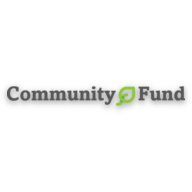
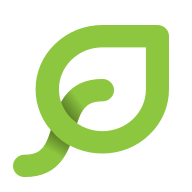
new favico and minor changes

diff --git a/src/routes/frontpage/quotes.js b/src/routes/frontpage/quotes.js
@@ -2,7 +2,7 @@ export default [
   {
     name: 'Ásgeir Vísir',
     text:
-      'Community Fund made it possible, and actually pretty easy, to organize UXuðir’s first meetup. 10/10 would reccomend.',
+      'Community Fund made it possible, and actually pretty easy, to organize UXuðir’s first meetup. 10/10 would recommend.',
     image: '/img/people/visir.jpg',
     title: 'UI/UX designer at Watchbox',
   },
@@ -23,13 +23,6 @@ export default [
     name: 'Valur Thor Gunnarsson',
     text:
       'One of the best thing about Community Fund is their no-nonsense, quick and simple application process. The whole communication process was effortless and easy.',
-    image: '/img/people/valur.jpg',
-    title: 'Founder Product Tank Reykjavik',
-  },
-  {
-    name: 'Valur Thor Gunnarsson',
-    text:
-      'I would recommend Community Fund to anyone looking to fund meetups and smaller events in the tech community.',
     image: '/img/people/valur.jpg',
     title: 'Founder Product Tank Reykjavik',
   },

diff --git a/src/routes/team/Team.js b/src/routes/team/Team.js
@@ -47,7 +47,7 @@ const operators = [
     name: 'Kristinn Árni Lár Hróbjartsson',
     image: '/img/team/kiddi_kassi.png',
     about: '',
-    phone: '',
+    phone: '823-5253',
   },
   {
     name: 'Kristján Ingi Mikaelsson',
@@ -73,7 +73,7 @@ class Team extends Component {
         >
           Review Board
         </Header>
-        <Container text>
+        <Container text style={{ marginBottom: '1em' }}>
           The grant review board is nominated by financial partners (3
           nominations) and the two founders, Kristinn Hróbjartsson and Kristján
           Mikaelsson. The review board votes on all applications. A simple
@@ -82,7 +82,6 @@ class Team extends Component {
         <Container
           as={Card.Group}
           itemsPerRow={5}
-          doubling
           style={{ justifyContent: 'center' }}
         >
           {reviewers.map(({ name, image, about, nominator, nominatorUrl }) => (

diff --git a/src/data/people.js b/src/data/people.js
@@ -123,6 +123,14 @@ const topicsMap = {
     name: 'interfaces',
     color: 'purple',
   },
+  agile: {
+    name: 'agile',
+    color: 'pink',
+  },
+  production: {
+    name: 'agile',
+    color: 'teal',
+  },
 };
 
 export default people.map(person => {
